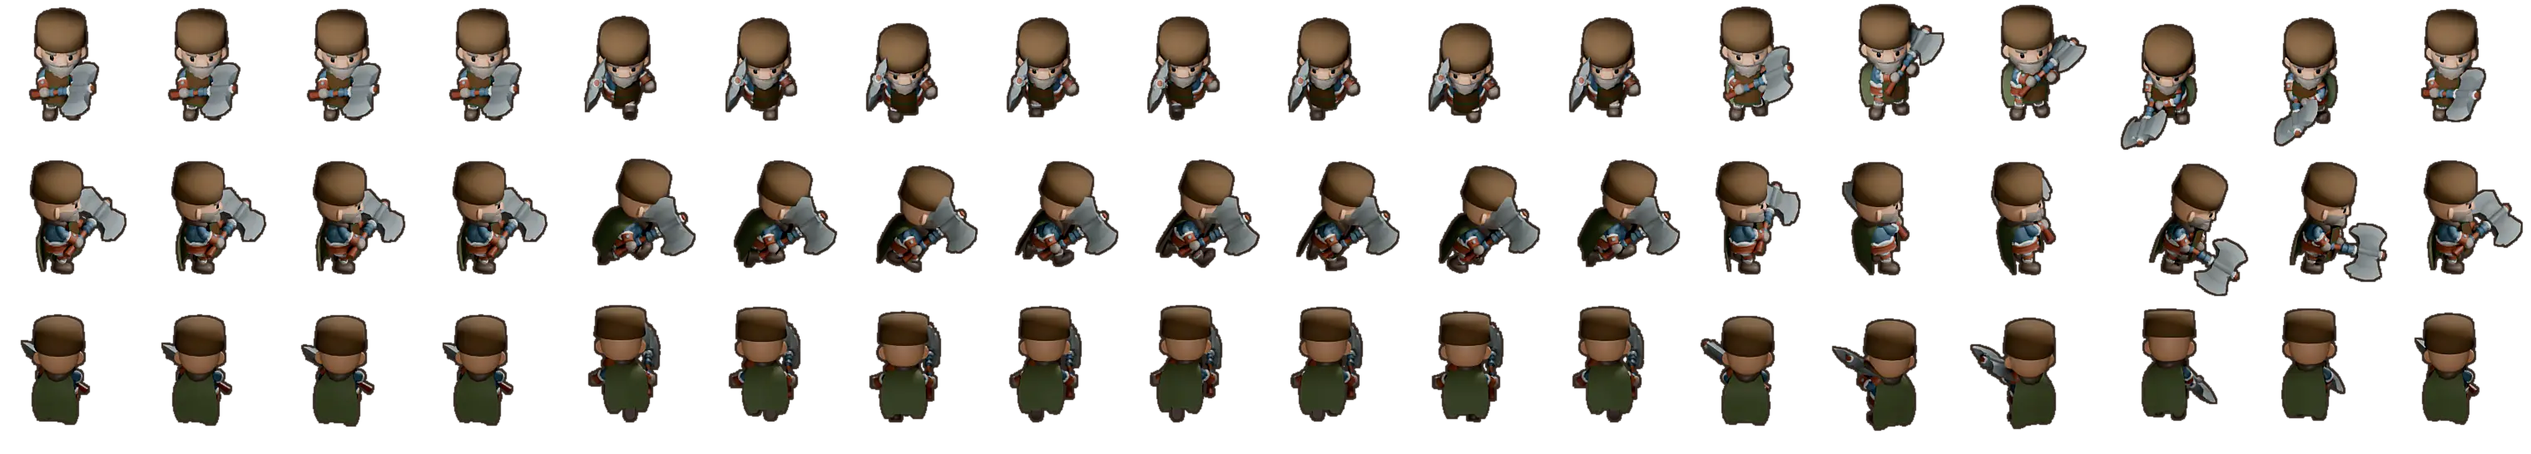
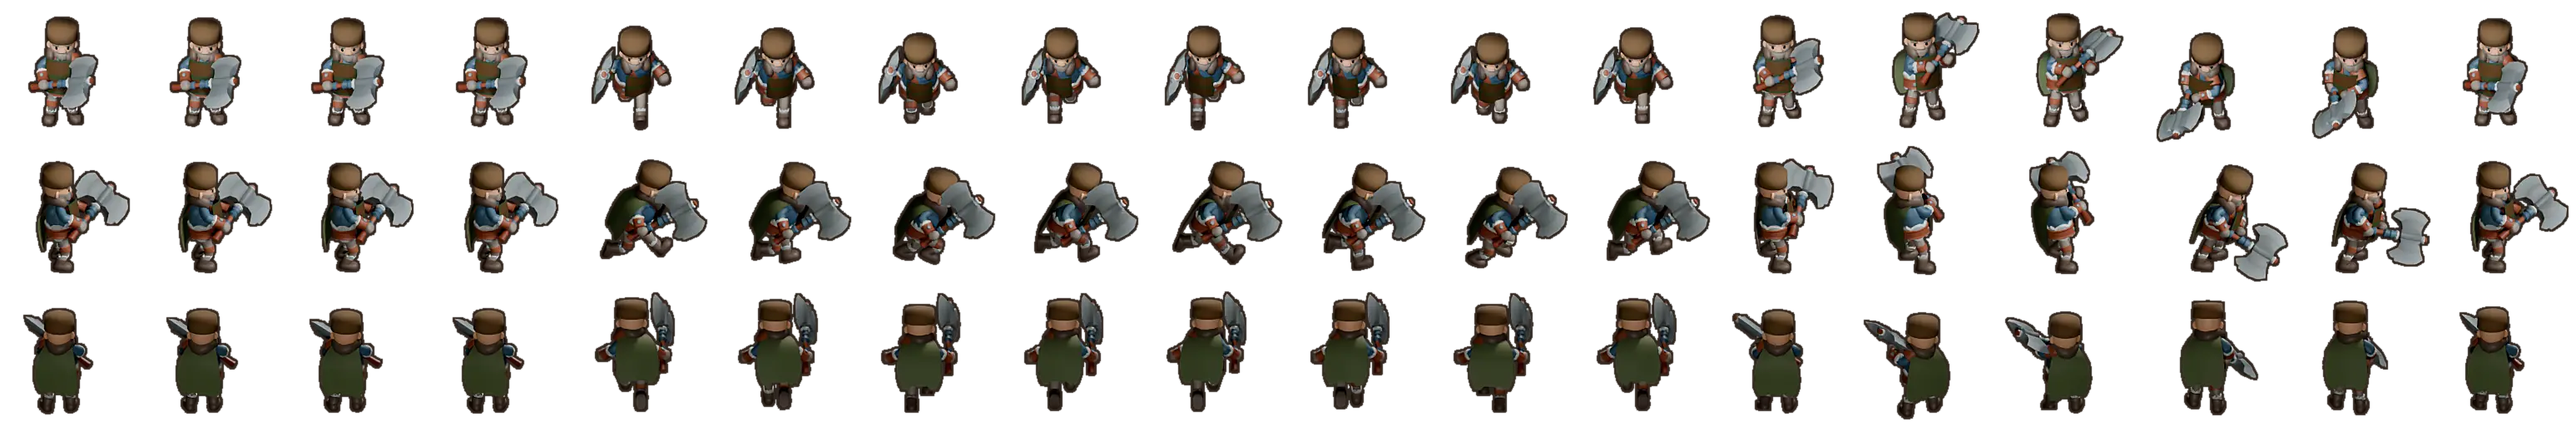
Srazmerniji likovi (manja glava, duže noge i trup) i vidljivija Google prijava
Claude-Session: https://claude.ai/code/session_01MURPTWpuhHHLnsSrrAwjre

diff --git a/index.html b/index.html
@@ -1417,9 +1417,9 @@ HOPT.vuk={tunic:'#e8e0d0',vest:'#8a2a22',trim:'#d9a441',pants:'#3a3a48',boots:'#
 HOPT.mila={tunic:'#f0e8d6',vest:'#2a3a2a',trim:'#c9a24a',pants:'#2a2020',boots:'#5a1a1a',dress:'#f3ead8',apron:'#9a2a22',hat:'marama',hatc:'#efe6d2',weapon:'kandilo',sleeve:'#f0e8d6',skin:'#ecc39e',hair:'#4a2c18'};
 const HDRAW={kovac};for(const k in HOPT)HDRAW[k]=(g,b,lg,t,m)=>figure(g,b,lg,t,m,HOPT[k]);
 /* ---------- 3D likovi (KayKit CC0, Kay Lousberg; prerenderovano u Blenderu) ---------- */
-const H3D={"strahinja": {"f": "strahinja", "w": 292, "h": 310, "cx": 116, "fy": 283, "ph": 255}, "dusan": {"f": "dusan", "w": 290, "h": 313, "cx": 114, "fy": 286, "ph": 263}, "milos": {"f": "milos", "w": 296, "h": 321, "cx": 120, "fy": 294, "ph": 273}};
-const A3D={"stit": {"f": "stit", "w": 242, "h": 255, "cx": 98, "fy": 231, "ph": 208}, "koplja": {"f": "koplja", "w": 282, "h": 260, "cx": 138, "fy": 237, "ph": 214}, "strel": {"f": "strel", "w": 237, "h": 258, "cx": 103, "fy": 237, "ph": 214}};
-const F3D={"osm_pesak": {"f": "osm_pesak", "w": 178, "h": 194, "cx": 66, "fy": 175, "ph": 155}, "biz_pesak": {"f": "biz_pesak", "w": 178, "h": 206, "cx": 66, "fy": 187, "ph": 173}, "osm_koplje": {"f": "osm_koplje", "w": 218, "h": 198, "cx": 106, "fy": 180, "ph": 160}, "osm_strel": {"f": "osm_strel", "w": 182, "h": 196, "cx": 79, "fy": 180, "ph": 160}, "osm_teski": {"f": "osm_teski", "w": 169, "h": 211, "cx": 72, "fy": 173, "ph": 158}, "dah_pesak": {"f": "dah_pesak", "w": 178, "h": 190, "cx": 66, "fy": 171, "ph": 151}, "dah_koplje": {"f": "dah_koplje", "w": 218, "h": 189, "cx": 106, "fy": 171, "ph": 156}, "dah_strel": {"f": "dah_strel", "w": 182, "h": 187, "cx": 79, "fy": 171, "ph": 156}, "dah_teski": {"f": "dah_teski", "w": 169, "h": 179, "cx": 72, "fy": 141, "ph": 128}, "krd_pesak": {"f": "krd_pesak", "w": 178, "h": 190, "cx": 66, "fy": 171, "ph": 151}, "krd_koplje": {"f": "krd_koplje", "w": 218, "h": 189, "cx": 106, "fy": 171, "ph": 156}, "krd_strel": {"f": "krd_strel", "w": 182, "h": 187, "cx": 79, "fy": 171, "ph": 156}, "krd_teski": {"f": "krd_teski", "w": 169, "h": 179, "cx": 72, "fy": 141, "ph": 128}, "biz_koplje": {"f": "biz_koplje", "w": 218, "h": 210, "cx": 106, "fy": 192, "ph": 178}, "biz_strel": {"f": "biz_strel", "w": 182, "h": 208, "cx": 79, "fy": 192, "ph": 178}, "biz_teski": {"f": "biz_teski", "w": 169, "h": 198, "cx": 72, "fy": 161, "ph": 148}, "ugr_pesak": {"f": "ugr_pesak", "w": 183, "h": 199, "cx": 71, "fy": 180, "ph": 163}, "ugr_koplje": {"f": "ugr_koplje", "w": 218, "h": 203, "cx": 106, "fy": 185, "ph": 168}, "ugr_strel": {"f": "ugr_strel", "w": 182, "h": 201, "cx": 79, "fy": 185, "ph": 168}, "ugr_teski": {"f": "ugr_teski", "w": 169, "h": 191, "cx": 72, "fy": 154, "ph": 140}, "bug_pesak": {"f": "bug_pesak", "w": 178, "h": 190, "cx": 66, "fy": 171, "ph": 156}, "bug_koplje": {"f": "bug_koplje", "w": 218, "h": 192, "cx": 106, "fy": 174, "ph": 161}, "bug_strel": {"f": "bug_strel", "w": 182, "h": 190, "cx": 79, "fy": 174, "ph": 161}, "bug_teski": {"f": "bug_teski", "w": 169, "h": 182, "cx": 72, "fy": 144, "ph": 133}};
+const H3D={"strahinja": {"f": "strahinja", "w": 301, "h": 315, "cx": 125, "fy": 306, "ph": 240}, "dusan": {"f": "dusan", "w": 296, "h": 315, "cx": 120, "fy": 306, "ph": 245}, "milos": {"f": "milos", "w": 304, "h": 315, "cx": 128, "fy": 306, "ph": 251}};
+const A3D={"stit": {"f": "stit", "w": 249, "h": 260, "cx": 105, "fy": 251, "ph": 197}, "koplja": {"f": "koplja", "w": 284, "h": 252, "cx": 140, "fy": 239, "ph": 197}, "strel": {"f": "strel", "w": 252, "h": 231, "cx": 110, "fy": 219, "ph": 197}};
+const F3D={"osm_pesak": {"f": "osm_pesak", "w": 182, "h": 198, "cx": 70, "fy": 190, "ph": 147}, "biz_pesak": {"f": "biz_pesak", "w": 182, "h": 198, "cx": 70, "fy": 190, "ph": 158}, "osm_koplje": {"f": "osm_koplje", "w": 220, "h": 193, "cx": 108, "fy": 182, "ph": 147}, "osm_strel": {"f": "osm_strel", "w": 192, "h": 176, "cx": 84, "fy": 166, "ph": 147}, "osm_teski": {"f": "osm_teski", "w": 172, "h": 182, "cx": 73, "fy": 160, "ph": 145}, "dah_pesak": {"f": "dah_pesak", "w": 182, "h": 198, "cx": 70, "fy": 190, "ph": 145}, "dah_koplje": {"f": "dah_koplje", "w": 220, "h": 193, "cx": 108, "fy": 182, "ph": 145}, "dah_strel": {"f": "dah_strel", "w": 192, "h": 170, "cx": 84, "fy": 160, "ph": 145}, "dah_teski": {"f": "dah_teski", "w": 172, "h": 173, "cx": 73, "fy": 151, "ph": 126}, "krd_pesak": {"f": "krd_pesak", "w": 182, "h": 198, "cx": 70, "fy": 190, "ph": 145}, "krd_koplje": {"f": "krd_koplje", "w": 220, "h": 193, "cx": 108, "fy": 182, "ph": 145}, "krd_strel": {"f": "krd_strel", "w": 192, "h": 170, "cx": 84, "fy": 160, "ph": 145}, "krd_teski": {"f": "krd_teski", "w": 172, "h": 173, "cx": 73, "fy": 151, "ph": 126}, "biz_koplje": {"f": "biz_koplje", "w": 220, "h": 193, "cx": 108, "fy": 182, "ph": 158}, "biz_strel": {"f": "biz_strel", "w": 192, "h": 185, "cx": 84, "fy": 174, "ph": 158}, "biz_teski": {"f": "biz_teski", "w": 172, "h": 174, "cx": 73, "fy": 153, "ph": 139}, "ugr_pesak": {"f": "ugr_pesak", "w": 182, "h": 198, "cx": 70, "fy": 190, "ph": 153}, "ugr_koplje": {"f": "ugr_koplje", "w": 220, "h": 193, "cx": 108, "fy": 182, "ph": 153}, "ugr_strel": {"f": "ugr_strel", "w": 192, "h": 180, "cx": 84, "fy": 169, "ph": 153}, "ugr_teski": {"f": "ugr_teski", "w": 172, "h": 173, "cx": 73, "fy": 152, "ph": 134}, "bug_pesak": {"f": "bug_pesak", "w": 182, "h": 198, "cx": 70, "fy": 190, "ph": 148}, "bug_koplje": {"f": "bug_koplje", "w": 220, "h": 193, "cx": 108, "fy": 182, "ph": 148}, "bug_strel": {"f": "bug_strel", "w": 192, "h": 172, "cx": 84, "fy": 162, "ph": 148}, "bug_teski": {"f": "bug_teski", "w": 172, "h": 173, "cx": 73, "fy": 151, "ph": 130}};
 const H3D_COL={i:[0,4],m:[4,8],a:[12,6]},H3D_ROW={f:0,s:1,b:2};
 function d3get(o){if(!o)return null;if(!o.img){o.img=new Image();o.img.onload=()=>{o.ok=1};o.img.src='a3d/'+o.f+'.webp'}return o.ok?o:null}
 function d3pre(){for(const T of[H3D,A3D])for(const k in T)d3get(T[k])}
@@ -3217,6 +3217,20 @@ function cloudUI(){const t=$('#clTitle');if(t){t.innerHTML=CL.user?`Prijavljen: 
 // pokretanje
 {const msg=sessionStorage.getItem('cuvari-cl');if(msg){sessionStorage.removeItem('cuvari-cl');setTimeout(()=>notify(msg),800)}}
 setTimeout(()=>{cloudInit()},400);
+
+/* ---------- vidljivija Google prijava ---------- */
+const GLOGO='<svg viewBox="0 0 48 48" width="20" height="20"><path fill="#EA4335" d="M24 9.5c3.5 0 6.6 1.2 9.1 3.6l6.8-6.8C35.8 2.4 30.3 0 24 0 14.6 0 6.6 5.4 2.7 13.3l7.9 6.1C12.5 13.6 17.8 9.5 24 9.5z"/><path fill="#4285F4" d="M46.5 24.5c0-1.6-.1-3.1-.4-4.5H24v9h12.7c-.6 3-2.3 5.5-4.8 7.2l7.7 6c4.5-4.2 7-10.3 7-17.7z"/><path fill="#FBBC05" d="M10.6 28.6c-.5-1.4-.8-3-.8-4.6s.3-3.2.8-4.6l-7.9-6.1C1 16.6 0 20.2 0 24s1 7.4 2.7 10.7l7.9-6.1z"/><path fill="#34A853" d="M24 48c6.5 0 11.9-2.1 15.9-5.8l-7.7-6c-2.2 1.5-5 2.3-8.2 2.3-6.2 0-11.5-4.1-13.4-9.8l-7.9 6.1C6.6 42.6 14.6 48 24 48z"/></svg>';
+{const st=document.createElement('style');st.textContent=`.gbtn{display:inline-flex;align-items:center;gap:10px;background:#fff;color:#1f1f1f;border:1px solid #dadce0;border-radius:24px;padding:10px 18px;font:600 15px 'Alegreya Sans',Roboto,Arial,sans-serif;box-shadow:0 2px 8px rgba(0,0,0,.35);cursor:pointer}
+.gbtn:active{transform:translateY(1px)}#clTitle .gbtn{margin-top:10px}
+#hubG{position:fixed;right:12px;top:calc(70px + env(safe-area-inset-top));z-index:30;padding:7px 12px 7px 9px;font-size:13px;gap:7px}
+#hubG svg{width:17px;height:17px}body:not(.hub) #hubG{display:none}
+@media(max-width:560px){#hubG{top:calc(118px + env(safe-area-inset-top))}}`;document.head.appendChild(st)}
+{const _ui=cloudUI;cloudUI=function(){_ui.apply(this,arguments);const t=$('#clTitle');
+ if(t&&!CL.user){t.innerHTML=`<div>Napredak se sada čuva samo na ovom uređaju.</div><button class="gbtn" id="clIn">${GLOGO}Prijavi se sa Google nalogom</button><div style="margin-top:8px;font-size:13px;opacity:.85">Igraj i na telefonu i na računaru, uđi u pravu tabelu.</div>`;$('#clIn').onclick=e=>{e.preventDefault();ac();cloudLogin()}}
+ let h=document.getElementById('hubG');if(!h){h=document.createElement('button');h.id='hubG';h.className='gbtn';h.onclick=()=>{ac();cloudLogin()};document.body.appendChild(h)}
+ h.innerHTML=GLOGO+'Prijavi se';h.style.display=CL.user?'none':''}}
+setInterval(()=>{const h=document.getElementById('hubG');if(h)document.body.classList.toggle('hub',state==='hub'&&!sheetOpen)},400);
+setTimeout(()=>{try{cloudUI()}catch(e){}},0);
 /* ---------- osećaj udarca: varnice, rez, zastoj, crvena ivica ---------- */
 {const _dm=dmgEnemy;dmgEnemy=function(e,d,kx=0,ky=0){if(!e||e.hp<=0)return _dm.apply(this,arguments);const hp0=e.hp;const r=_dm.apply(this,arguments);if(!G||window.__quiet)return r;
  const a=Math.atan2(ky||(e.y-G.p.y),kx||(e.x-G.p.x)),y=e.y-14,big=d>=Math.max(30,e.max*.3)||e.hp<=0;
